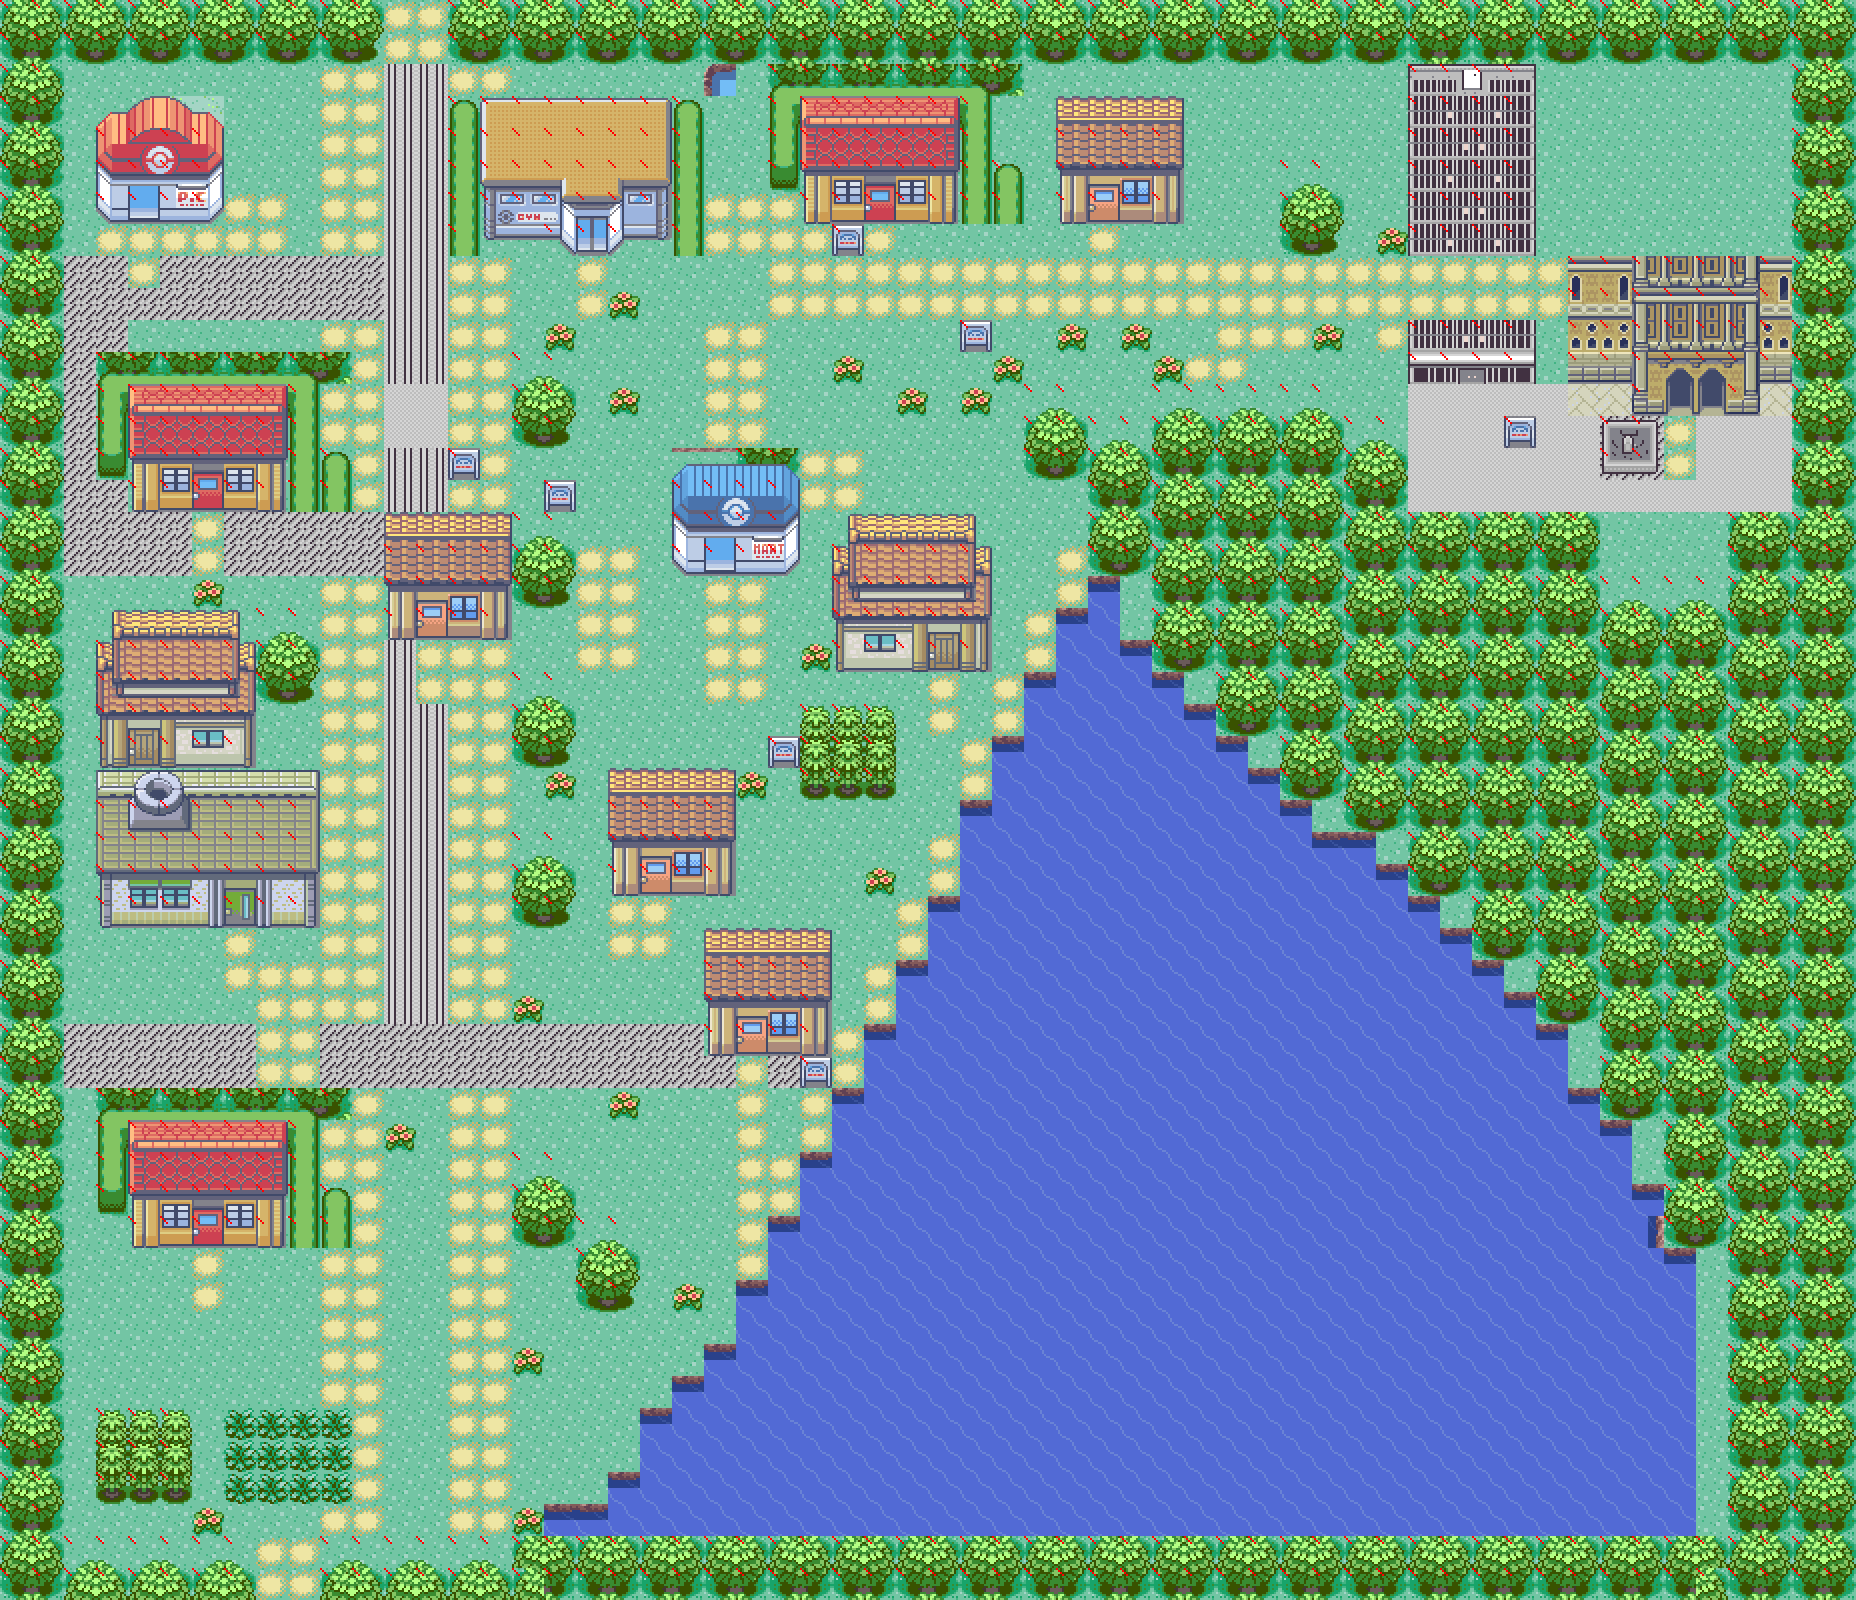
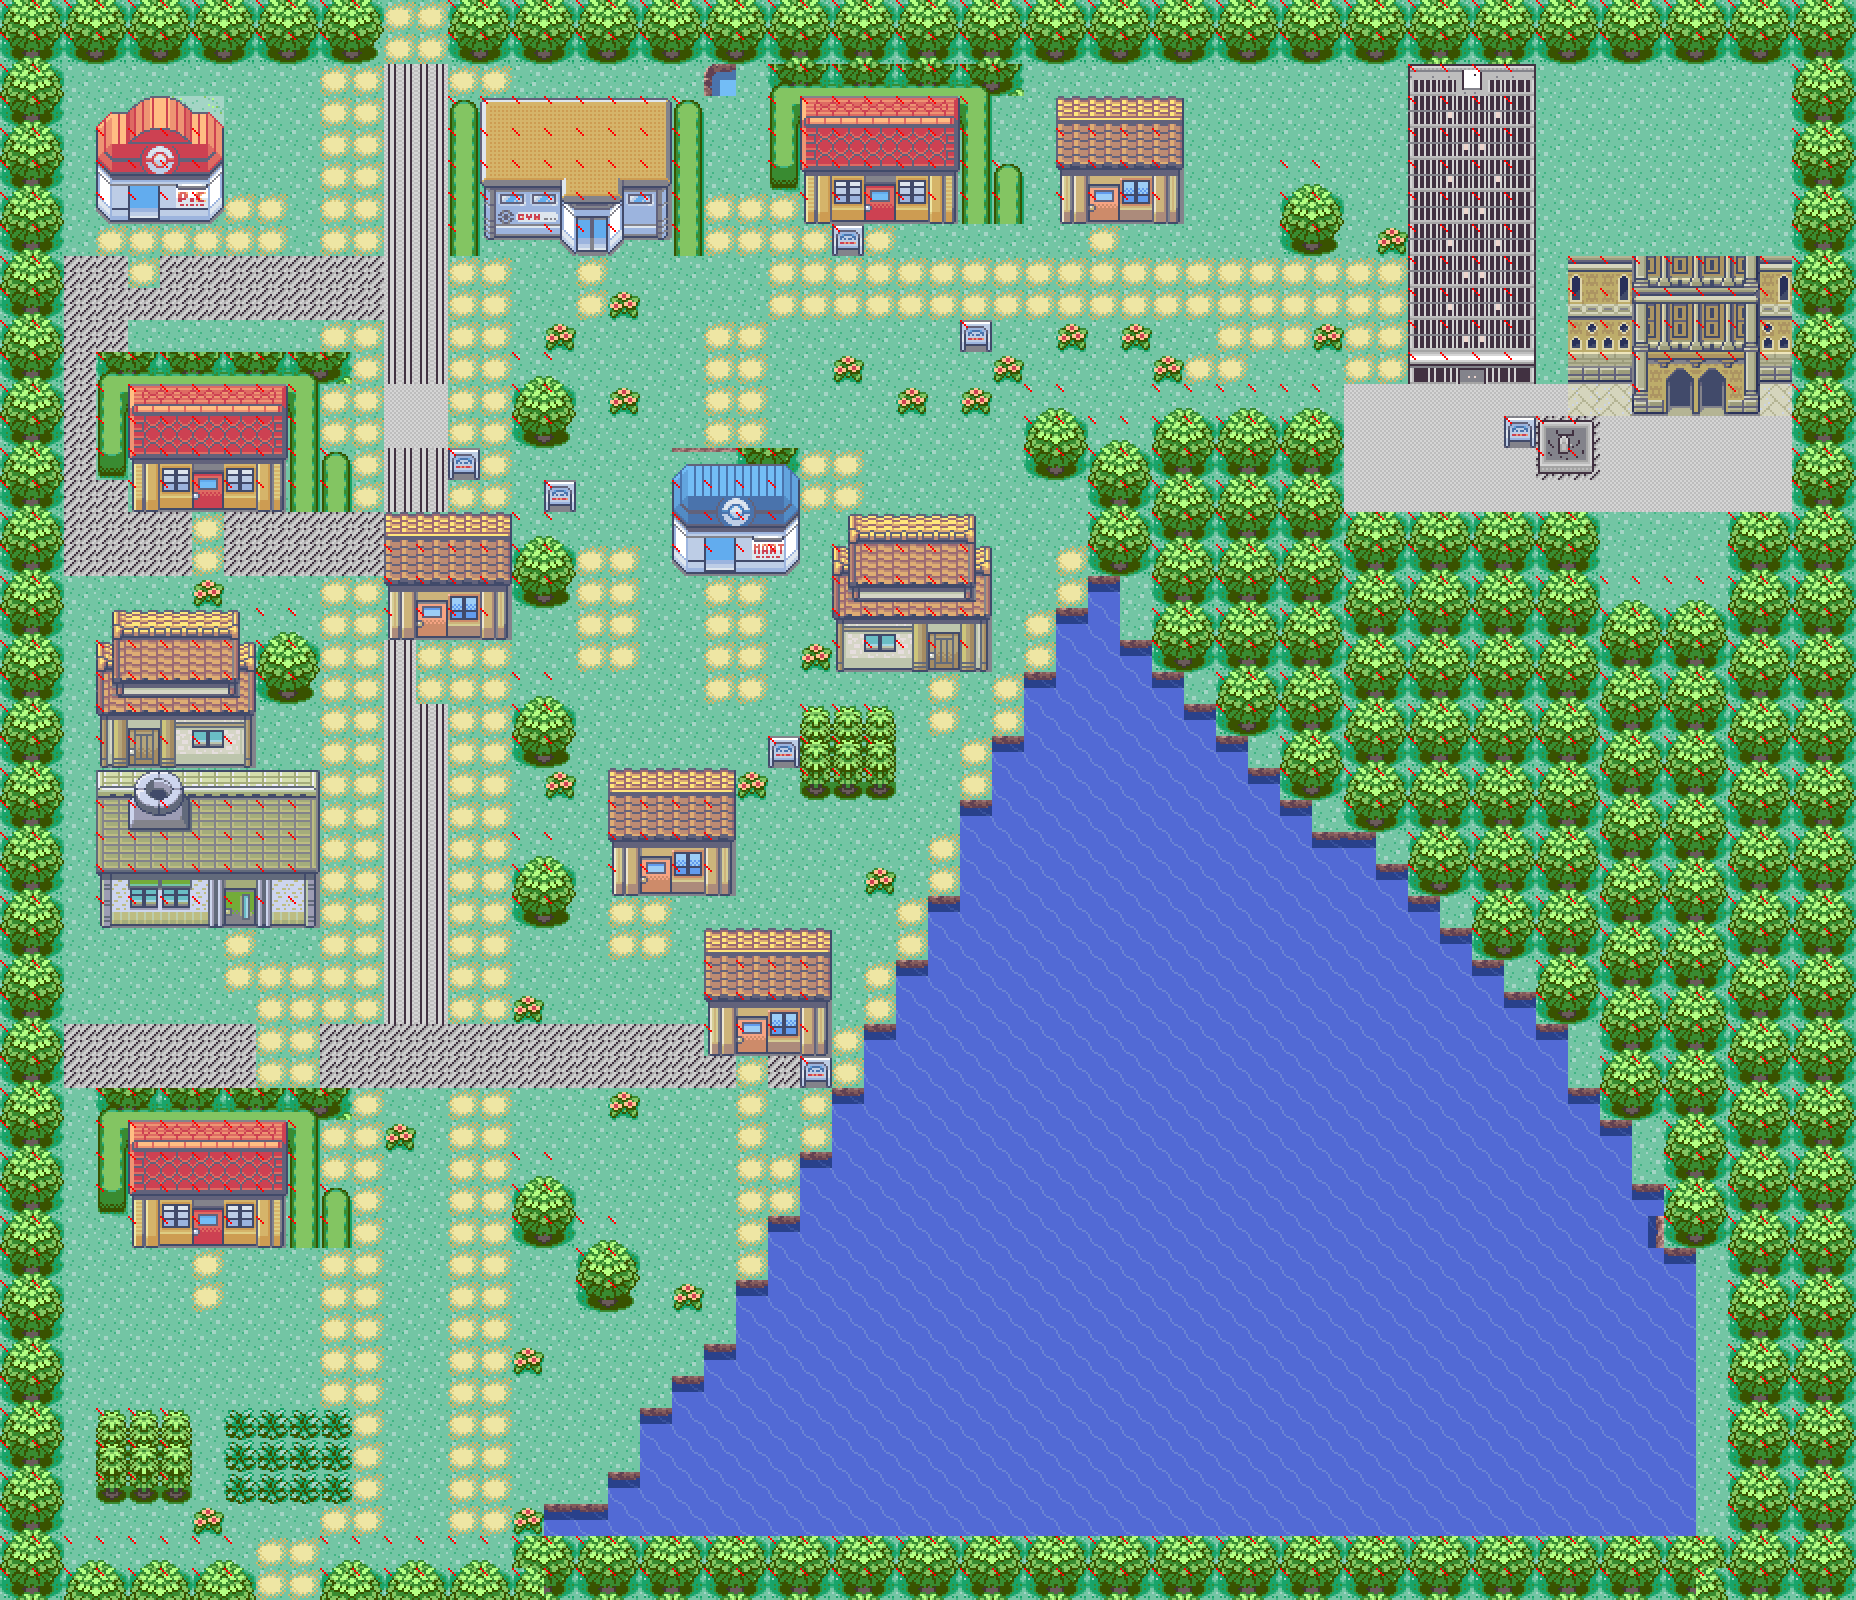
Chronon hero: the un-sliced Turicum (the avenue no longer crosses the tower's seventh floor)

Changed region(s): [[0.7188, 0.1562, 0.8438, 0.3438], [0.8125, 0.25, 0.9375, 0.3125]]

diff --git a/chronon/index.html b/chronon/index.html
@@ -61,7 +61,7 @@
     </p>
 
     <figure class="shot">
-      <img src="turicum.png" alt="Turicum, the largest city in Helvera: the financial quarter's tower and bank on a quay plaza, the old town, and Lake Turic" width="928" height="800">
+      <img src="turicum.png" alt="Turicum, the largest city in Helvera: the financial quarter's tower and bank on a quay plaza, the old town, and Lake Turic" width="1856" height="1600">
       <figcaption>TURICUM, the money city at the head of Lake Turic. The lake is
       drawn as two shorelines rather than a shape, and the financial
       quarter&rsquo;s tower keeps its own clock.</figcaption>
